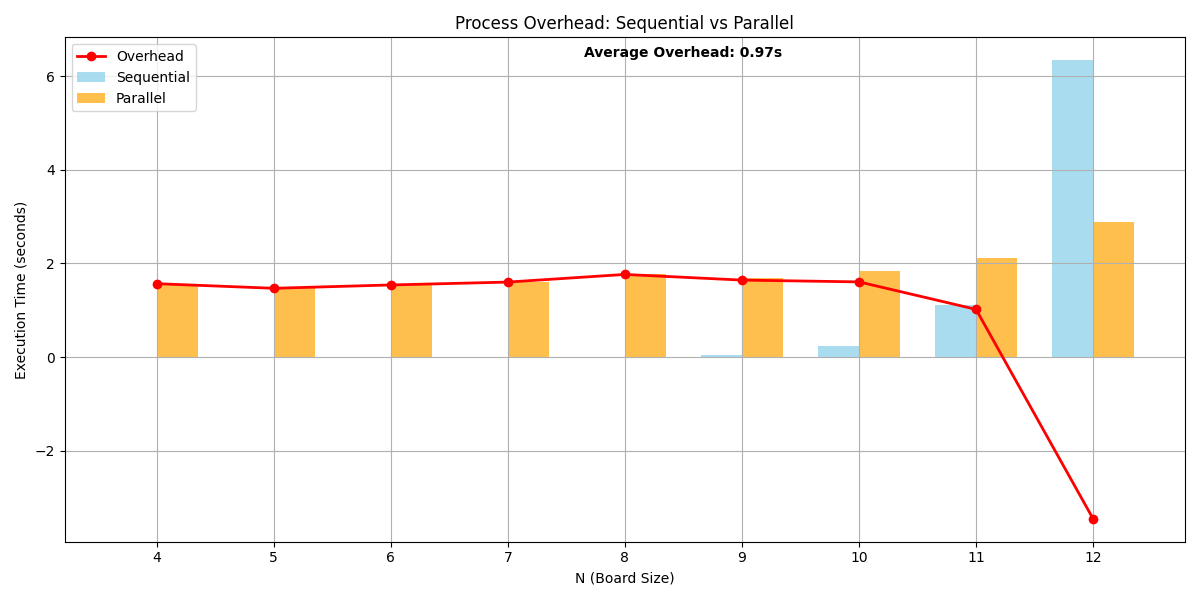
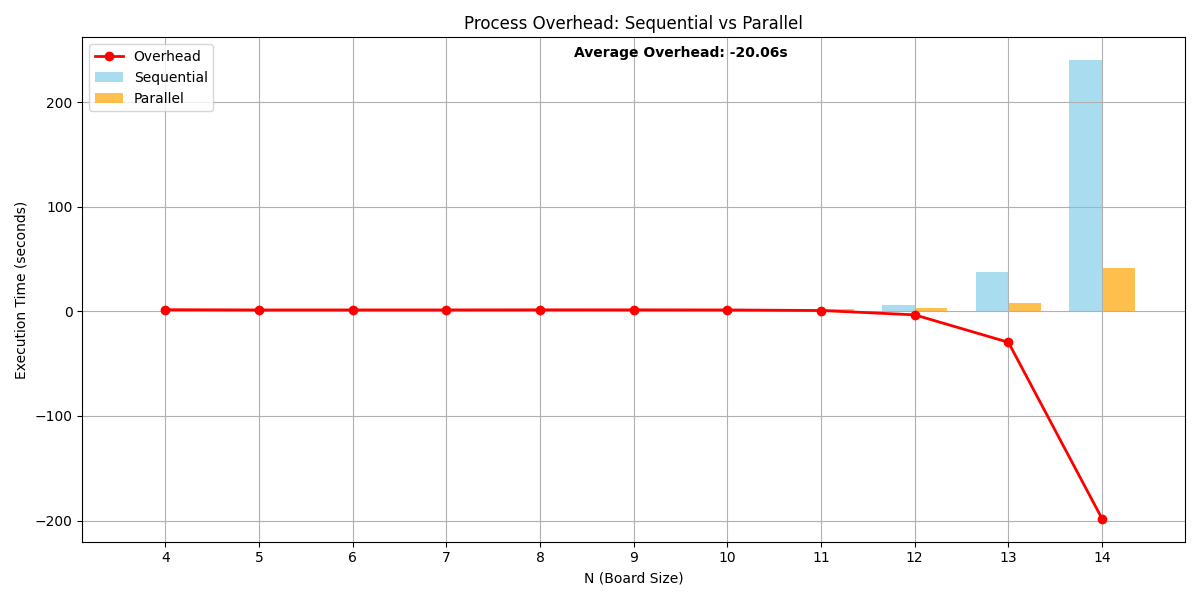
N 14 and 15

diff --git a/Zuin/main_2.py b/Zuin/main_2.py
@@ -59,7 +59,7 @@ def plot_overhead(n_values, seq_times, par_times):
     plt.close()
 
 def main():
-    n_values = [4, 5, 6, 7, 8, 9, 10, 11, 12]
+    n_values = [4, 5, 6, 7, 8, 9, 10, 11, 12, 13, 14, 15]
     seq_times = []
     par_times = []
     seq_cpu_usage = []
